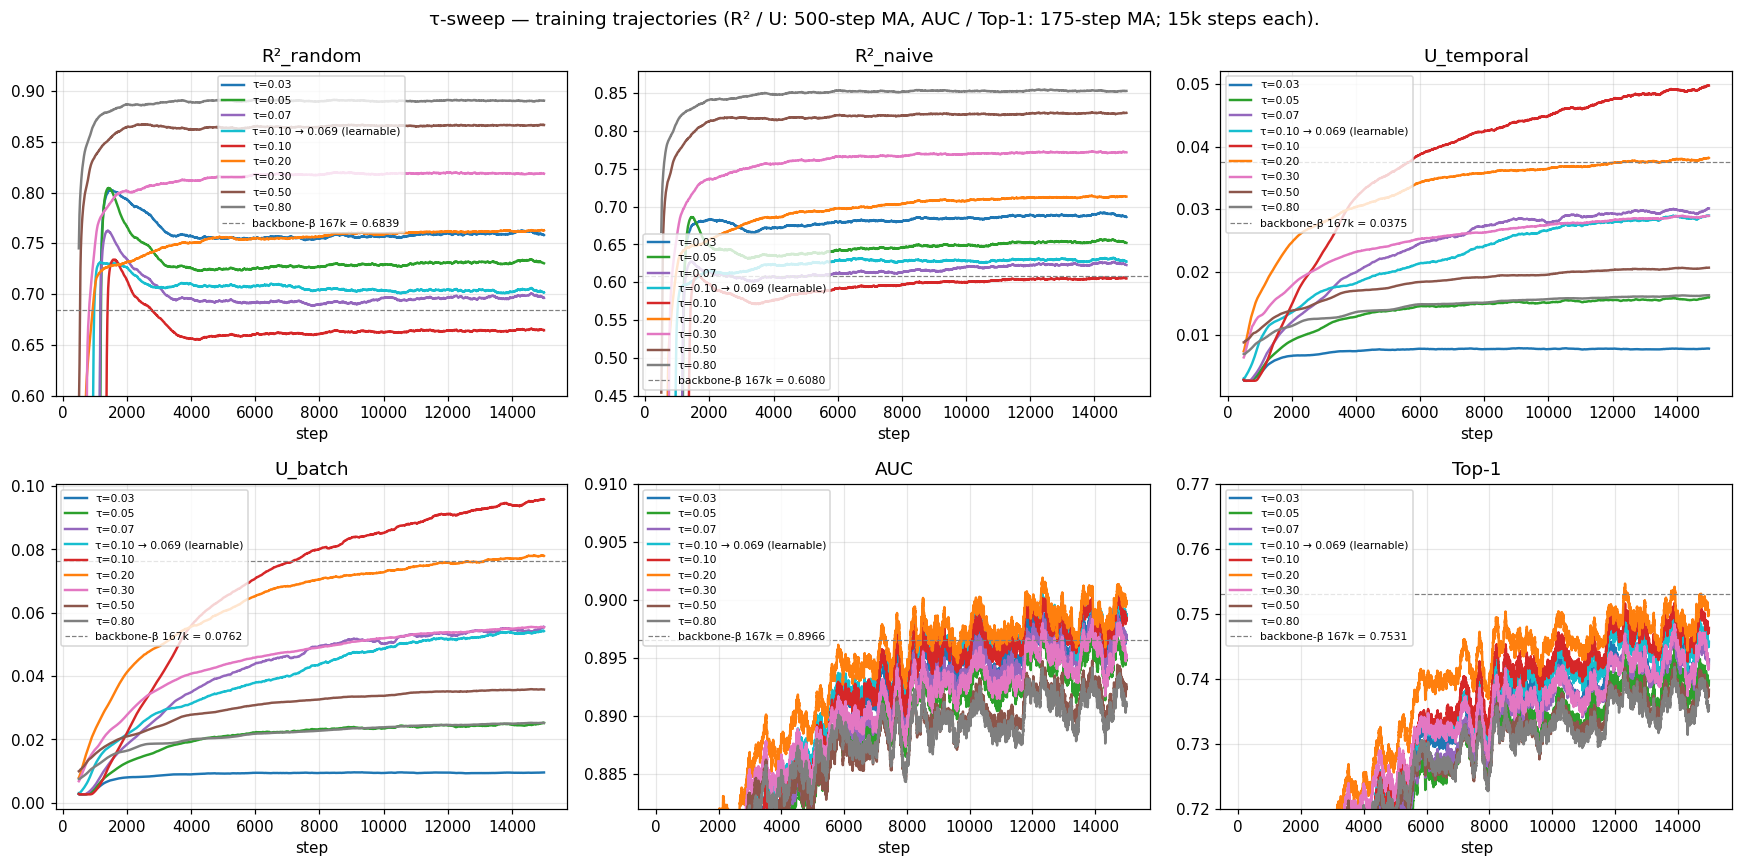
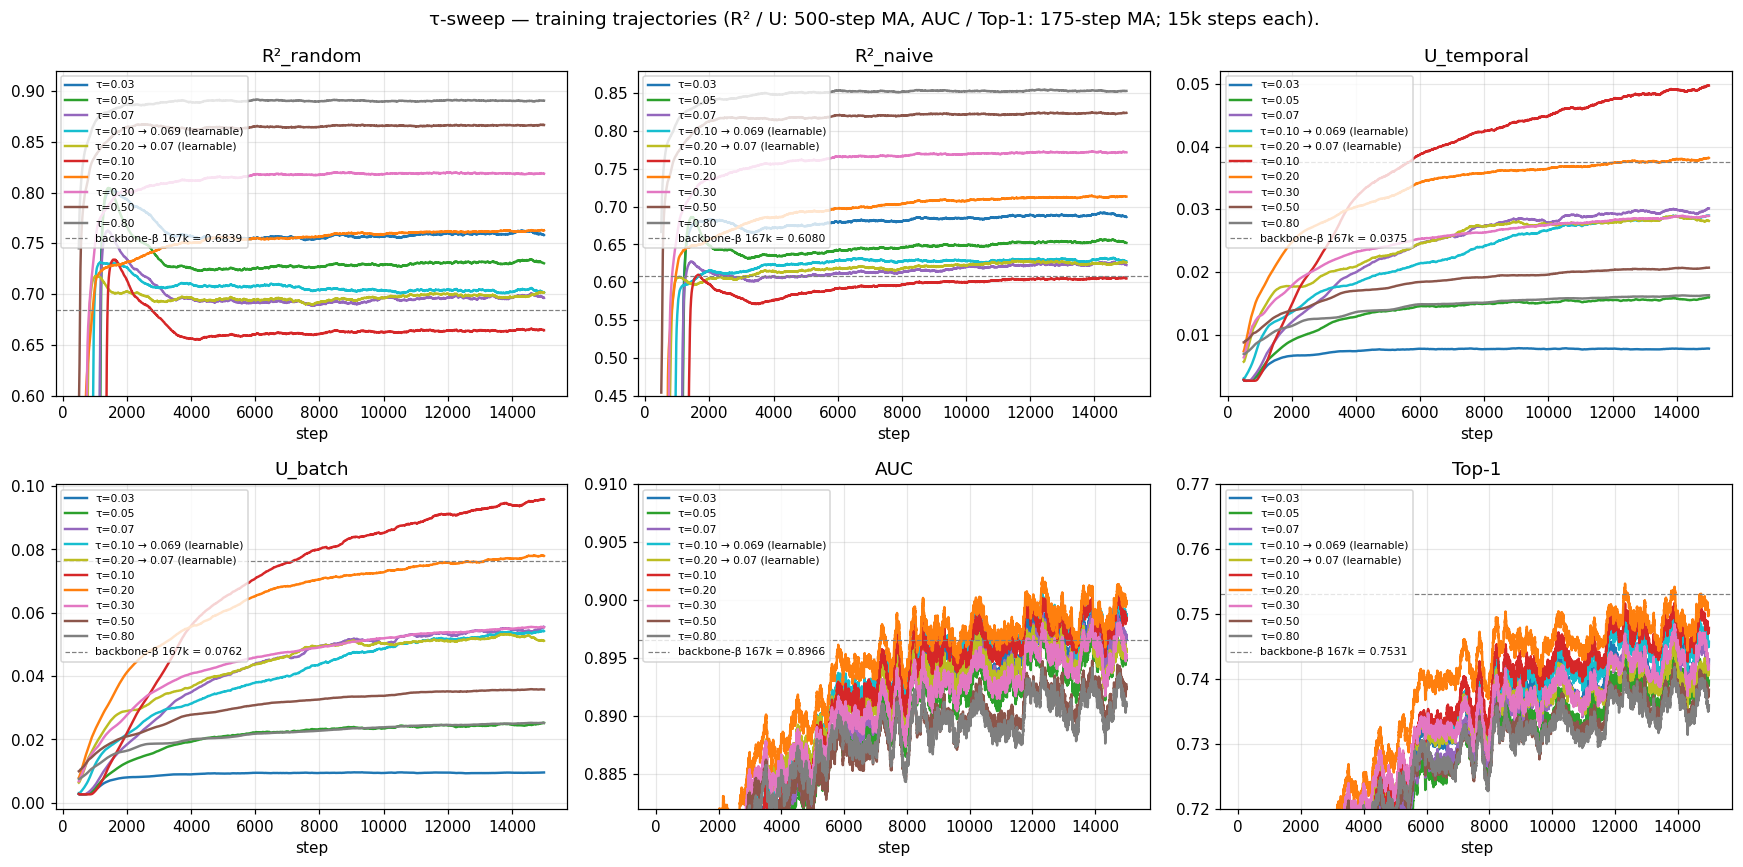
plot(tau-sweep): add learnable_τ_init=0.20 to short-trajectory + held-out plots
Inserts the `tau_sweep_learnable_0_20` arm (init τ=0.20 → converged ~0.07)
between `tau_sweep_learnable_0_10` and the fixed `tau_sweep_0_10` arms in
both ARMS lists, matching the convergence-position rule already used for
the init=0.10 learnable arm. Color #bcbd22 (olive), previously unused.

Plots regenerated:
- experiments/2026-05-08_exp_tau_sweep/plots/tau_sweep_v2_trajectories.png
- experiments/2026-05-08_exp_tau_sweep/plots/tau_sweep_eval_multisample.png

Held-out CSV row already present (R²_random 0.6885, AUC 0.8975, N=50);
no re-evaluation needed. RESULTS.md table already lists the row in the
correct position; no caption changes needed.

diff --git a/experiments/2026-05-08_exp_tau_sweep/scripts/plot_tau_sweep_multisample.py b/experiments/2026-05-08_exp_tau_sweep/scripts/plot_tau_sweep_multisample.py
@@ -37,6 +37,7 @@ ARMS = [
     ("τ=0.05",                     "tau_sweep_0_05",           "#2ca02c"),
     ("τ=0.07",                     "tau_sweep_0_07",           "#9467bd"),
     ("τ=0.10 → 0.069 (learnable)", "tau_sweep_learnable_0_10", "#17becf"),
+    ("τ=0.20 → 0.07 (learnable)",  "tau_sweep_learnable_0_20", "#bcbd22"),
     ("τ=0.10",                     "tau_sweep_0_10",           "#d62728"),
     ("τ=0.20",                     "tau_sweep_0_20_v2",        "#ff7f0e"),
     ("τ=0.30",                     "tau_sweep_0_30",           "#e377c2"),

diff --git a/experiments/2026-05-08_exp_tau_sweep/scripts/plot_tau_sweep_v2.py b/experiments/2026-05-08_exp_tau_sweep/scripts/plot_tau_sweep_v2.py
@@ -43,6 +43,8 @@ ARMS = [
      SYNC / "tau_sweep_0_07_losses.csv"),
     ("τ=0.10 → 0.069 (learnable)", "tau_sweep_learnable_0_10", "#17becf",
      SYNC_LEARN / "tau_sweep_learnable_0_10_losses.csv"),
+    ("τ=0.20 → 0.07 (learnable)",  "tau_sweep_learnable_0_20", "#bcbd22",
+     SYNC_LEARN / "tau_sweep_learnable_0_20_losses.csv"),
     ("τ=0.10",                     "tau_sweep_0_10",           "#d62728",
      SYNC / "tau_sweep_0_10_losses.csv"),
     ("τ=0.20",                     "tau_sweep_0_20_v2",        "#ff7f0e",
